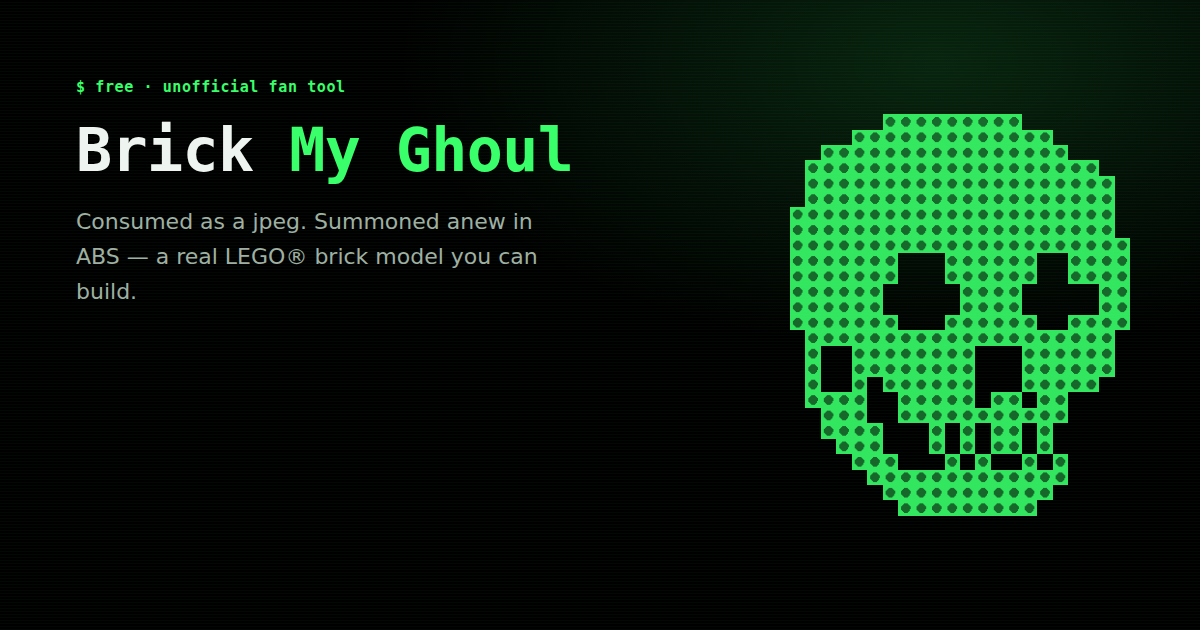
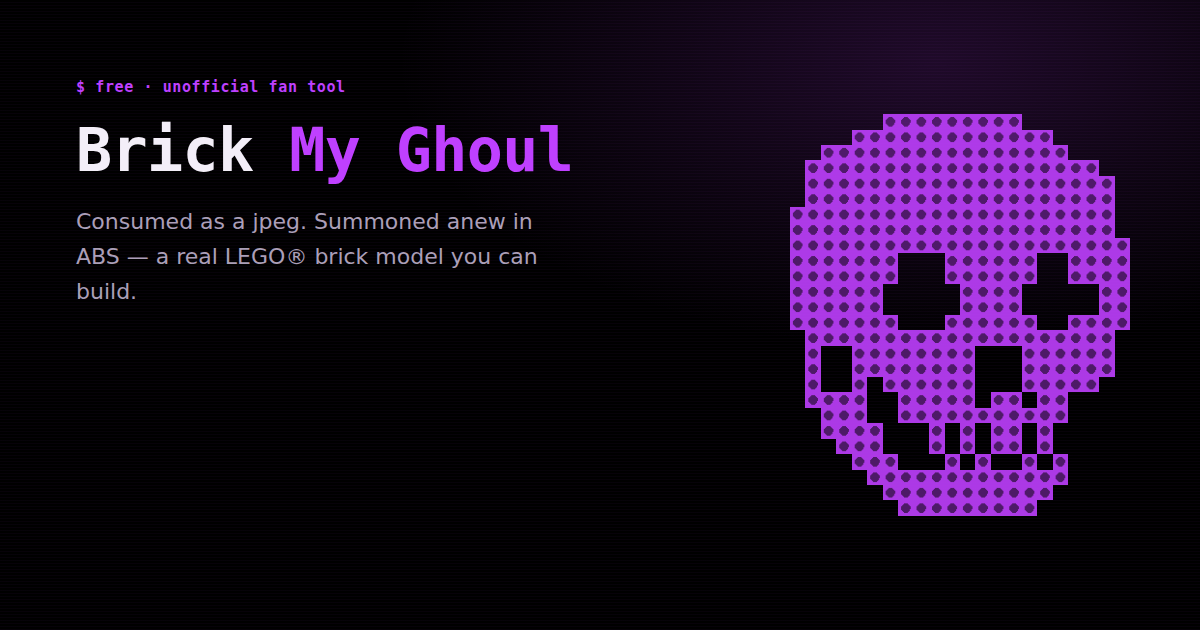
Purple neon accent, hero brick-kit preview image (#4)
- Swap the terminal green accent for a neon purple (#bf40ff), recomputed
  against the void-black background (15.7:1+ everywhere text is involved,
  well above AA); updated favicon and OG image to match.
- Add a hero 'proof' visual: a real rendered brick-kit export screenshot,
  framed in a terminal-window card ('$ brick_my_ghoul --kit'), served
  through astro:assets so it's optimised (102kB -> 32kB webp) with explicit
  width/height (no CLS).
- Re-verified after both changes: zero JS, single h1, no horizontal scroll
  at 320px, build clean.

Claude-Session: https://claude.ai/code/session_012dMexmQvek41X4ZAn6TQsA

Changed region(s): [[0.6475, 0.0, 0.9558, 0.8444], [0.2158, 0.181, 0.4933, 0.3016], [0.0617, 0.1206, 0.3083, 0.1508]]

diff --git a/landing/src/styles/global.css b/landing/src/styles/global.css
@@ -49,18 +49,18 @@ p {
 
 /* ---------------------------------------------------------------------
    Design tokens — "Brick My Ghoul"
-   Cypherpunk terminal: void black + phosphor green, one accent, sharp edges,
+   Cypherpunk terminal: void black + neon purple, one accent, sharp edges,
    monospace UI chrome. Body copy stays in a readable sans for long-form text.
 --------------------------------------------------------------------- */
 
 :root {
   --bg: #000000;
-  --bg-raised: #0a0d0a;
-  --bone: #eef4ef;
-  --bone-dim: #9fb0a3;
-  --ghoul: #39ff6a;
-  --ghoul-dim: #1c8f3c;
-  --line: #1c2620;
+  --bg-raised: #0d0812;
+  --bone: #f3eef8;
+  --bone-dim: #ab9fb8;
+  --ghoul: #bf40ff;
+  --ghoul-dim: #6b1f96;
+  --line: #241c2c;
   --mono: ui-monospace, "SFMono-Regular", Menlo, Consolas, "Liberation Mono",
     monospace;
 
@@ -77,7 +77,7 @@ p {
 @media (prefers-color-scheme: light) {
   :root {
     --bg: #000000;
-    --bg-raised: #0a0d0a;
+    --bg-raised: #0d0812;
   }
 }
 
@@ -86,13 +86,13 @@ body {
   color: var(--bone);
   background-image: radial-gradient(
       ellipse 900px 480px at 15% -10%,
-      rgba(57, 255, 106, 0.1),
+      rgba(191, 64, 255, 0.12),
       transparent 60%
     ),
     repeating-linear-gradient(
       0deg,
-      rgba(57, 255, 106, 0.02) 0px,
-      rgba(57, 255, 106, 0.02) 1px,
+      rgba(191, 64, 255, 0.025) 0px,
+      rgba(191, 64, 255, 0.025) 1px,
       transparent 1px,
       transparent 3px
     );
@@ -100,7 +100,7 @@ body {
 
 ::selection {
   background: var(--ghoul);
-  color: #05170a;
+  color: #0a0014;
 }
 
 a {
@@ -161,13 +161,13 @@ p {
 
 .btn-primary {
   background: var(--ghoul);
-  color: #011206;
-  box-shadow: 0 0 0 1px rgba(57, 255, 106, 0.5), 0 14px 34px -14px rgba(57, 255, 106, 0.65);
+  color: #0a0014;
+  box-shadow: 0 0 0 1px rgba(191, 64, 255, 0.5), 0 14px 34px -14px rgba(191, 64, 255, 0.65);
 }
 
 .btn-primary:hover {
   transform: translateY(-2px);
-  box-shadow: 0 0 0 1px rgba(57, 255, 106, 0.7), 0 20px 38px -14px rgba(57, 255, 106, 0.8);
+  box-shadow: 0 0 0 1px rgba(191, 64, 255, 0.7), 0 20px 38px -14px rgba(191, 64, 255, 0.8);
 }
 
 .btn-ghost {
